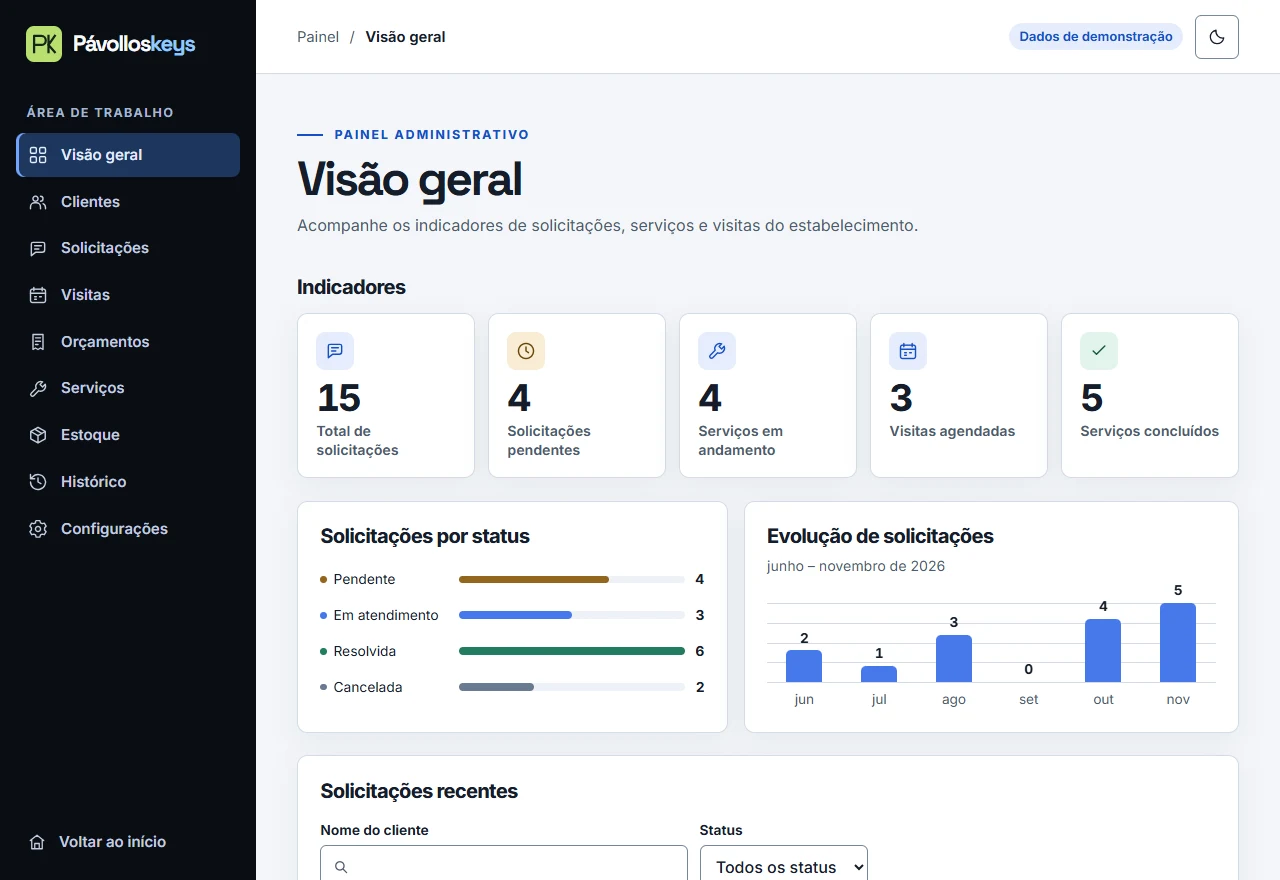
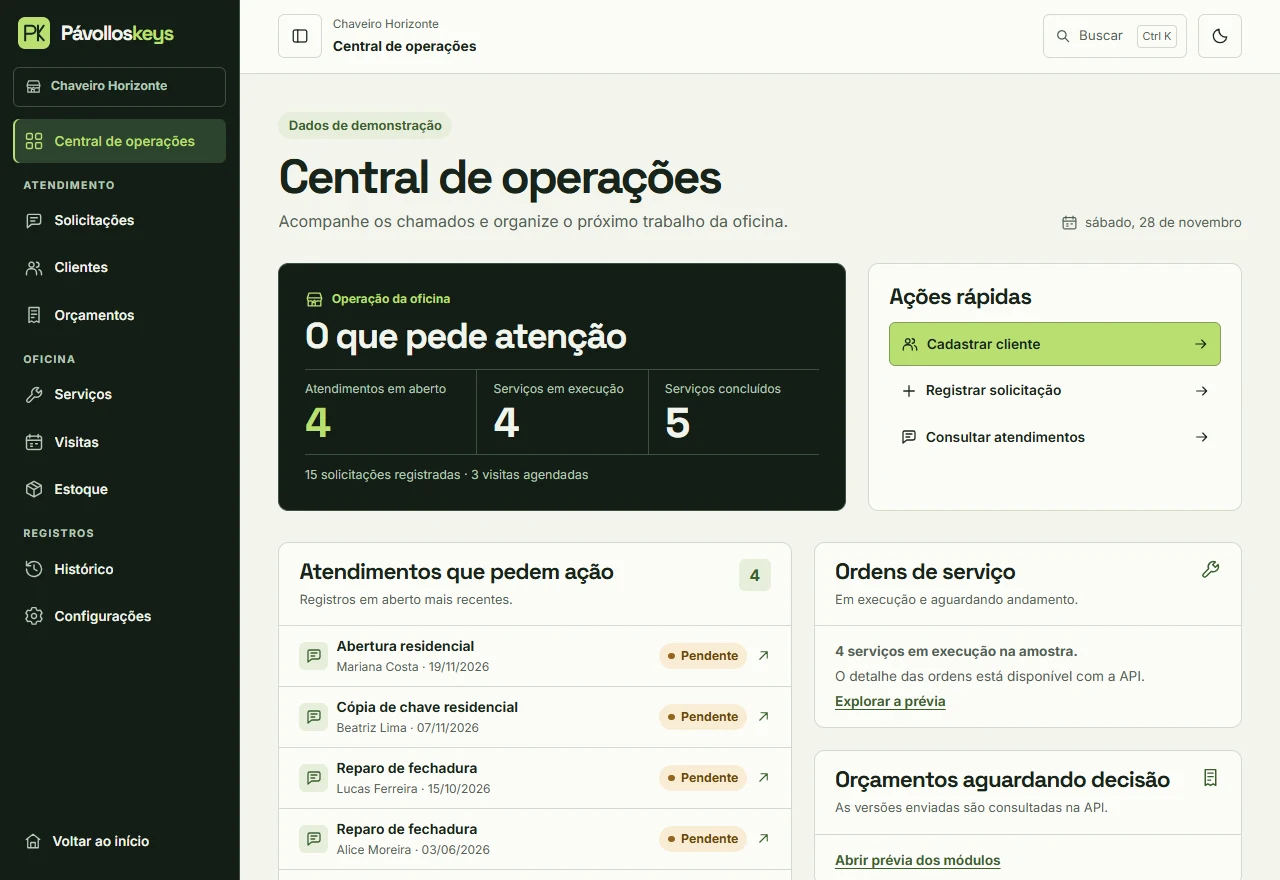
docs: atualizar a prévia da landing e o guia da central

diff --git a/frontend/src/pages/Landing/PanelPreview.tsx b/frontend/src/pages/Landing/PanelPreview.tsx
@@ -22,6 +22,8 @@ const statusLabels: Record<RequestStatus, string> = {
 }
 const clients = new Map(demoClients.map(({ id, nome }) => [id, nome]))
 const recent = demoRequests.slice(0, 3)
+const open = demoRequests.filter(({ status }) => status === 'pendente')
+const running = demoDashboard.servicos.filter(({ status }) => status === 'em_andamento').length
 const monthFormat = new Intl.DateTimeFormat('pt-BR', { month: 'short', timeZone: 'UTC' })
 const latestMonth = new Date(recent[0].dataSolicitacao.slice(0, 7) + '-01T00:00:00Z')
 const months = Array.from({ length: 6 }, (_, index) => {
@@ -35,13 +37,13 @@ function Status({ status }: { status: RequestStatus }) {
   return <span className="demo-status" data-status={status}>{statusLabels[status]}</span>
 }
 
-function Overview({ compact = false }: { compact?: boolean }) {
+function Overview() {
   return (
     <>
       <dl className="demo-stats">
         <div><dt>Solicitações</dt><dd>{demoRequests.length}</dd></div>
-        <div><dt>Pendentes</dt><dd>{demoRequests.filter(({ status }) => status === 'pendente').length}</dd></div>
-        <div><dt>Serviços em andamento</dt><dd>{demoDashboard.servicos.filter(({ status }) => status === 'em_andamento').length}</dd></div>
+        <div><dt>Pendentes</dt><dd>{open.length}</dd></div>
+        <div><dt>Serviços em andamento</dt><dd>{running}</dd></div>
       </dl>
       <section className="demo-activity" aria-label="Evolução das solicitações">
         <div className="demo-activity-title"><strong>Solicitações por mês</strong><span>Últimos seis meses da amostra</span></div>
@@ -56,7 +58,7 @@ function Overview({ compact = false }: { compact?: boolean }) {
       </section>
       <div className="demo-list-title">Solicitações recentes</div>
       <ul className="demo-rows">
-        {(compact ? recent.slice(0, 2) : recent).map((request) => (
+        {recent.map((request) => (
           <li key={request.id}>
             <div><strong>{request.tipoServico}</strong><span>{clients.get(request.clienteId)}</span></div>
             <Status status={request.status} />
@@ -77,7 +79,22 @@ export function HeroPanel() {
         <div className="product-rail" aria-hidden="true">
           {tabs.map(({ id, icon }, index) => <span key={id} data-selected={index === 0}><Icon name={icon} size={17} /></span>)}
         </div>
-        <div className="product-overview"><p className="product-heading">Visão geral</p><Overview compact /></div>
+        <div className="product-overview hero-operations">
+          <p className="product-heading">O que pede atenção</p>
+          <dl className="demo-stats hero-operations-stats">
+            <div><dt>Atendimentos em aberto</dt><dd>{open.length}</dd></div>
+            <div><dt>Serviços em execução</dt><dd>{running}</dd></div>
+          </dl>
+          <p className="demo-list-title">Fila de atendimento</p>
+          <ul className="demo-rows">
+            {open.slice(0, 2).map((request) => (
+              <li key={request.id}>
+                <div><strong>{request.tipoServico}</strong><span>{clients.get(request.clienteId)}</span></div>
+                <Status status={request.status} />
+              </li>
+            ))}
+          </ul>
+        </div>
       </div>
     </div>
   )

diff --git a/frontend/src/pages/Landing/landing.css b/frontend/src/pages/Landing/landing.css
@@ -1,36 +1,25 @@
 .landing {
-  --story-paper: #f3f4ec;
-  --story-surface: #fcfcf7;
-  --story-wash: #e7eadf;
-  --story-ink: #19241b;
-  --story-muted: #506153;
-  --story-line: #c9d2c4;
-  --story-accent: #3a602d;
-  --story-focus: #3a602d;
-  --story-night: #141e16;
-  --story-frame: #1d2a20;
-  --story-panel: #25362a;
-  --story-grid: #3c5141;
-  --story-white: #f0f4eb;
-  --story-soft: #b5c8b7;
-  --story-lime: #b9df71;
+  --story-paper: var(--canvas);
+  --story-surface: var(--surface);
+  --story-wash: var(--surface-subtle);
+  --story-ink: var(--text);
+  --story-muted: var(--muted);
+  --story-line: var(--border);
+  --story-accent: var(--accent);
+  --story-focus: var(--focus);
+  --story-night: var(--night);
+  --story-frame: var(--night-surface);
+  --story-panel: var(--night-panel);
+  --story-grid: var(--night-line);
+  --story-white: var(--night-text);
+  --story-soft: var(--night-muted);
+  --story-lime: var(--signal);
   --story-wrap: min(79rem, calc(100% - clamp(2rem, 10vw, 10rem)));
   --story-section: clamp(4.2rem, 8vw, 8rem);
   color: var(--story-ink);
   background: var(--story-paper);
 }
 
-:root[data-theme='dark'] .landing {
-  --story-paper: #101912;
-  --story-surface: #19251d;
-  --story-wash: #202f24;
-  --story-ink: #eff5ed;
-  --story-muted: #b6c8b9;
-  --story-line: #435847;
-  --story-accent: #c7e992;
-  --story-focus: #c7e992;
-  --story-night: #0b110d;
-}
 
 .landing :focus-visible { outline-color: var(--story-focus); }
 .story-container { width: var(--story-wrap); margin-inline: auto; }
@@ -190,6 +179,8 @@
 .demo-stats div + div { border-inline-start: 1px solid var(--story-grid); }
 .demo-stats dt { color: var(--story-soft); font-size: .73rem; line-height: 1.35; }
 .demo-stats dd { font: 700 clamp(1.45rem, 2.6vw, 2.15rem)/1.1 var(--font-display); font-variant-numeric: tabular-nums; margin-block-start: .3rem; }
+.hero-operations-stats { grid-template-columns: repeat(2, minmax(0, 1fr)); margin-block-end: .85rem; }
+.hero-operations-stats div:first-child dd { color: var(--story-lime); }
 .demo-activity {
   margin-block: .85rem;
   background: var(--story-panel);
@@ -306,7 +297,7 @@
 .queue-row strong { font-size: .93rem; }
 .queue-status { justify-self: start; padding: .19rem .5rem; border-radius: .85rem; background: var(--story-wash); color: var(--story-accent); font-size: .77rem; font-weight: 650; }
 
-.story-journey { background: var(--story-paper); }
+.story-journey { background: var(--story-paper); padding-block: clamp(3.4rem, 6vw, 6rem); }
 .journey-layout { display: grid; grid-template-columns: minmax(0,.8fr) minmax(0,1.2fr); gap: clamp(2rem,5vw,5rem); align-items: start; margin-block-start: 2rem; }
 .journey-steps { padding-inline-start: .45rem; }
 .journey-steps li { padding: .32rem 0; }
@@ -315,7 +306,7 @@
   gap: .85rem;
   align-items: start;
   width: 100%;
-  min-height: 7rem;
+  min-height: 5.6rem;
   border-inline-start: 2px solid var(--story-line);
   text-align: start;
   padding: 1rem .65rem;

diff --git a/frontend/README.md b/frontend/README.md
@@ -40,7 +40,7 @@ Em produção, sirva `frontend/dist` com HTTPS e encaminhe `/api/*` ao Next.js n
 | Tela | Comportamento |
 | --- | --- |
 | Acesso | Login, recuperação do perfil ao recarregar, expiração de sessão e logout. |
-| Dashboard | Atalhos da API. Indicadores, gráficos e lista calculados com atendimentos, clientes e ordens retornados pela API. Técnico acompanha suas ordens. Visitas aparecem sem dados da API. |
+| Central de operações | Fila de atendimentos em aberto, ações rápidas, ordens que aguardam andamento, amostra de orçamentos enviados e gráficos de solicitações. Técnico acompanha as próprias ordens. |
 | Clientes | Lista, pesquisa, cadastro, consulta, edição e lista de atendimentos por cliente. A API grava nome, telefone e e-mail. |
 | Solicitações | Lista, filtros, cadastro e consulta de atendimentos, histórico e encerramento ou cancelamento conforme o perfil. A criação registra cliente, canal e descrição. |
 | Orçamentos | Cotação inicial ou complementar, versões, itens, total do banco, envio, aprovação, recusa, expiração e geração de ordem por item aprovado. O envio registra a mudança de estado. |
@@ -78,7 +78,26 @@ A autorização é aplicada pelo servidor e pelas funções PostgreSQL. As telas
 | Marca e capturas | `src/assets/pk-mark.svg`, `src/components/ui/Brand.tsx`, `src/components/ui/Icon.tsx`, `index.html` e `public/demo-{desktop,mobile}.webp`. |
 | Limpeza do 3D | Manifesto e lockfile da raiz, `vite.config.ts`, componentes da cena, tipagem JSX, detecção de WebGL e poster. A versão com a chave está preservada no commit `5724f47`. |
 
-**Verificação.** Build, lint, os 11 testes de validação e PostgreSQL e a suíte HTTP passaram. No Edge, a landing foi verificada em 360, 390, 768, 1024, 1440 e 1920 px. A checagem cobriu rolagem nativa, avanço manual e automático na jornada, teclado, menu móvel, temas, movimento reduzido, imagens e links para o painel. O axe não apontou violações nas três vistas avaliadas. Com o build servido na mesma origem que a API local de teste, foram conferidos login, cookie HttpOnly, restrição de técnico e logout. O pacote 3D opcional, de cerca de 266 kB com gzip na versão anterior, saiu do build. As duas capturas WebP somam aproximadamente 101 kB e carregam sob demanda.
+**Verificação.** Build, lint, os 11 testes de validação e PostgreSQL e a suíte HTTP passaram. No Edge, a landing foi verificada em 360, 390, 768, 1024, 1440 e 1920 px. A checagem cobriu rolagem nativa, avanço manual e automático na jornada, teclado, menu móvel, temas, movimento reduzido, imagens e links para o painel. O pacote 3D opcional, de cerca de 266 kB com gzip na versão anterior, saiu do build.
+
+### Central de operações — fase 2
+
+**Diagnóstico.** Na auditoria das nove telas no Edge, o painel anterior cabia em 390 px e usava uma navegação linear. Cinco cartões com peso parecido competiam por atenção. O proprietário precisava sair da visão geral para abrir os formulários, e o técnico via contagens sem uma fila que levasse à ordem. A paleta azul separava visualmente o painel da landing.
+
+**Decisões e entregas.** Os dois ambientes compartilham os tokens off-white, floresta e verde-limão. O limão marca a ação principal, a seleção e o primeiro indicador do resumo. Conferir pendências, agir e avaliar o desempenho são seções sucessivas. A barra lateral recolhe, os módulos têm agrupamento e a barra inferior aproxima as rotas frequentes no celular. O cabeçalho identifica o estabelecimento, oferece o tema e agrupa as opções da sessão em um menu de perfil. Ctrl ou Cmd + K abre a busca de páginas e ações. A busca aceita texto sem acentos, setas, Enter e Escape.
+
+**Fluxos e dados.** Os atalhos de cadastro abrem os formulários existentes. As linhas de atendimento, orçamento e ordem levam ao respectivo registro. O quadro de orçamentos mostra até quatro versões enviadas, consultando até duas cotações por atendimento entre os cinco atendimentos abertos mais recentes. A página de orçamentos continua disponível para consultar outros registros. O técnico vê as ordens retornadas para a própria sessão e usa os controles de execução já existentes. Na demonstração, a abertura residencial de Mariana aparece na fila de atendimentos. O detalhe de ordens e orçamentos é identificado como dependente da API. A landing traz no hero um recorte da fila e mantém os gráficos e as seis abas na seção do produto. As capturas WebP atualizadas somam cerca de 128 kB, com carregamento sob demanda.
+
+| Área | Arquivos |
+| --- | --- |
+| Central e dados | `src/pages/Painel/{OperationsOverview.tsx,workbench.css,PanelPages.tsx,dashboard.css}`, `src/hooks/useDashboard.ts`, `src/services/dashboard.ts` e `src/types/dashboard.ts`. Os componentes duplicados de cartões e indicadores deram lugar ao resumo e à fila. |
+| Navegação e sessão | `src/components/layout/{PanelLayout.tsx,panel-layout.css,CommandPalette.tsx}`, `src/routes/{panelNavigation.ts,routes.ts}` e `src/App.tsx`. |
+| Atalhos para fluxos existentes | `src/pages/Clientes/ClientsPage.tsx`, `src/pages/Solicitacoes/RequestsPage.tsx` e `src/pages/Painel/{BudgetsPage,OrdersPage}.tsx`. |
+| Tema e apresentação | `src/{design-system.css,index.css,App.css,theme.ts}`, `index.html`, `src/pages/Landing/{PanelPreview.tsx,landing.css}` e `public/demo-{desktop,mobile}.webp`. |
+
+**Verificação.** Build e lint dos dois projetos, os 11 testes de validação e PostgreSQL e a suíte HTTP passaram. No Edge, o painel foi exercitado de 360 a 1920 px, com os oito módulos verificados a 390 px. Foram conferidos os dois temas, o cadastro pela busca, os atalhos, a continuidade de Mariana e as oito etapas da landing. O axe não apontou violações nas seis vistas avaliadas. Com a API local de teste, foram verificados carregamento, erro, nova tentativa e ausência de dados. O proprietário criou cliente e solicitação e abriu orçamento e ordem pelos links da Central. O técnico iniciou a ordem no celular, teve a permissão comercial recusada pela API e voltou ao painel com o estado atualizado.
+
+**Pendências.** A homologação no Supabase remoto depende da configuração do ambiente. O redesenho aprofundado de cada módulo fica para as etapas próprias.
 
 ### Etapas anteriores
 

diff --git a/README.md b/README.md
@@ -1,6 +1,6 @@
 # Pávolloskeys
 
-O Pávolloskeys é uma plataforma de gestão para chaveiros. O fluxo integrado acompanha o cliente do atendimento à cotação, ao orçamento e à ordem de serviço. A landing page apresenta esse percurso como uma história interativa, e o painel pode ser aberto com dados de demonstração.
+O Pávolloskeys é uma plataforma de gestão para chaveiros. A landing page acompanha o fluxo do atendimento à ordem de serviço. A Central de operações reúne a fila de atendimentos, os orçamentos e as ordens conforme o perfil. O painel também pode ser aberto com dados de demonstração.
 
 | Pasta | Conteúdo |
 | --- | --- |
